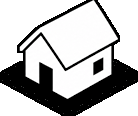
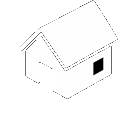
fix: dark aura around houses - strip opaque black crop-bg remnants from house/apt sprites (flood-fill from border), assets ?v=2

diff --git a/src/world/stamps.js b/src/world/stamps.js
@@ -1,5 +1,5 @@
-const T_HOUSE=new Image();T_HOUSE.src="asset/tiles/smooth_house_only.png?v=1";
-const T_APT=new Image();T_APT.src="asset/tiles/smooth_apt_only.png?v=1";
+const T_HOUSE=new Image();T_HOUSE.src="asset/tiles/smooth_house_only.png?v=2";
+const T_APT=new Image();T_APT.src="asset/tiles/smooth_apt_only.png?v=2";
 const T_TILE=new Image();T_TILE.src="asset/tiles/smooth_tile.png?v=2";
 function smoothBlit(img,x,y,w,h){
 cx.save();

diff --git a/index.html b/index.html
@@ -24,7 +24,7 @@ canvas{display:block;image-rendering:auto;touch-action:none}
 <script src="src/core/audio.js?v=45"></script>
 <script src="src/core/display.js?v=45"></script>
 <script src="src/ui/icons.js?v=45"></script>
-<script src="src/world/stamps.js?v=49"></script>
+<script src="src/world/stamps.js?v=50"></script>
 <script src="src/world/board.js?v=57"></script>
 <script src="src/world/streets.js?v=45"></script>
 <script src="src/world/tiles.js?v=59"></script>

diff --git a/DESIGN.md b/DESIGN.md
@@ -79,6 +79,16 @@ cost delays expansion; post-prestige bonuses speed it later).
 - 6x6 board tops at tier 4 corners; tier 6+ math live but waits
   for grid growth. Save v8.
 
+### 07-20 HOUSE AURA BUG FIXED
+- smooth_house_only + smooth_apt_only carried ~4000 OPAQUE BLACK
+  pixels each = leftover crop background around the building
+  (the known "crops have opaque black bg" trap). Downscale blit
+  smeared that black over tile lines = dark aura around houses.
+- Fix: flood-fill from the image border across non-bright pixels;
+  every outside-reachable dark pixel -> alpha 0. Interior blacks
+  (enclosed by the white body) kept for occlusion. Assets bumped
+  ?v=2; pre-fix originals in ref/backup_aura/ (gitignored).
+
 ### 07-20 TUTORIAL PURGE + ZOOM (user)
 - ALL text tutorials DELETED except the zoom tip (SELECT A DARK
   TILE / TASKS RESOLVE AT END DAY / DARKNESS ATTACKS gone; G.tut +